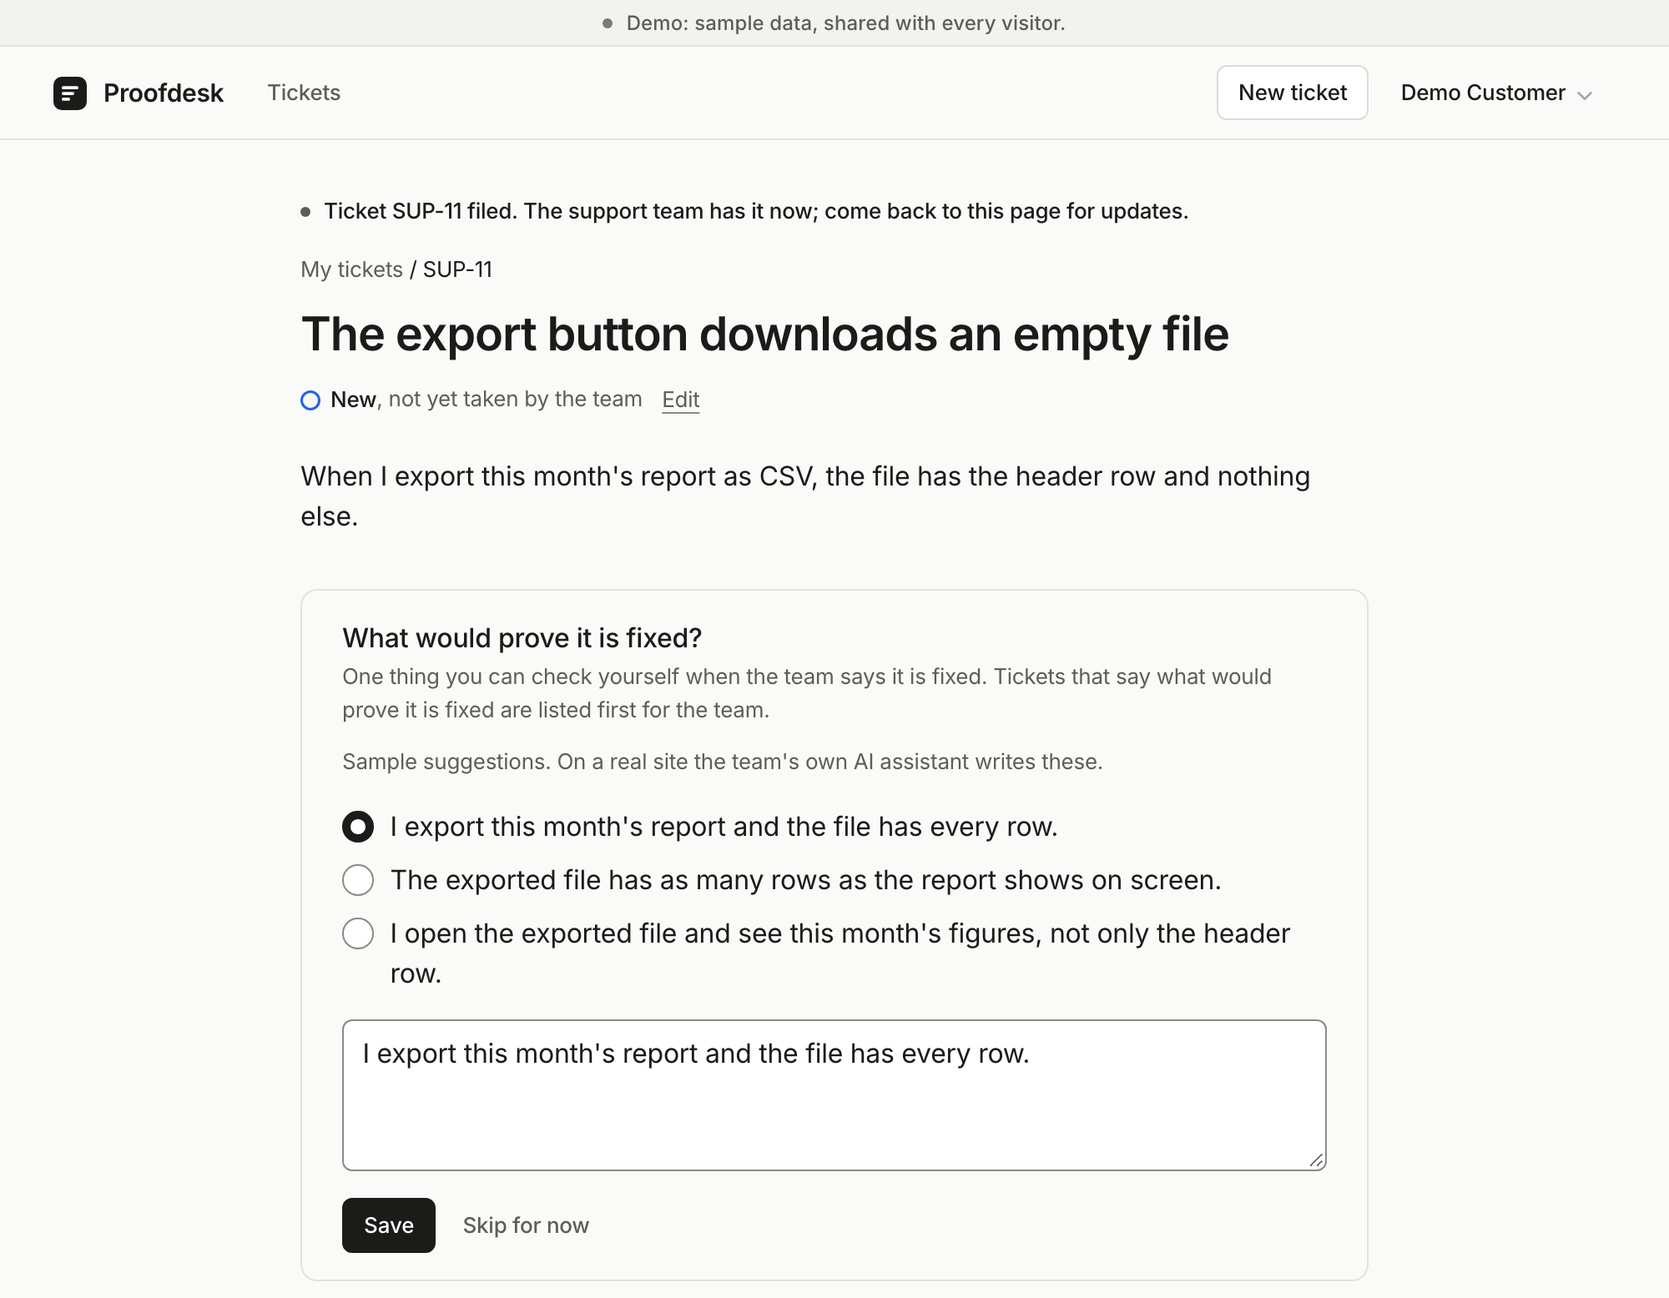
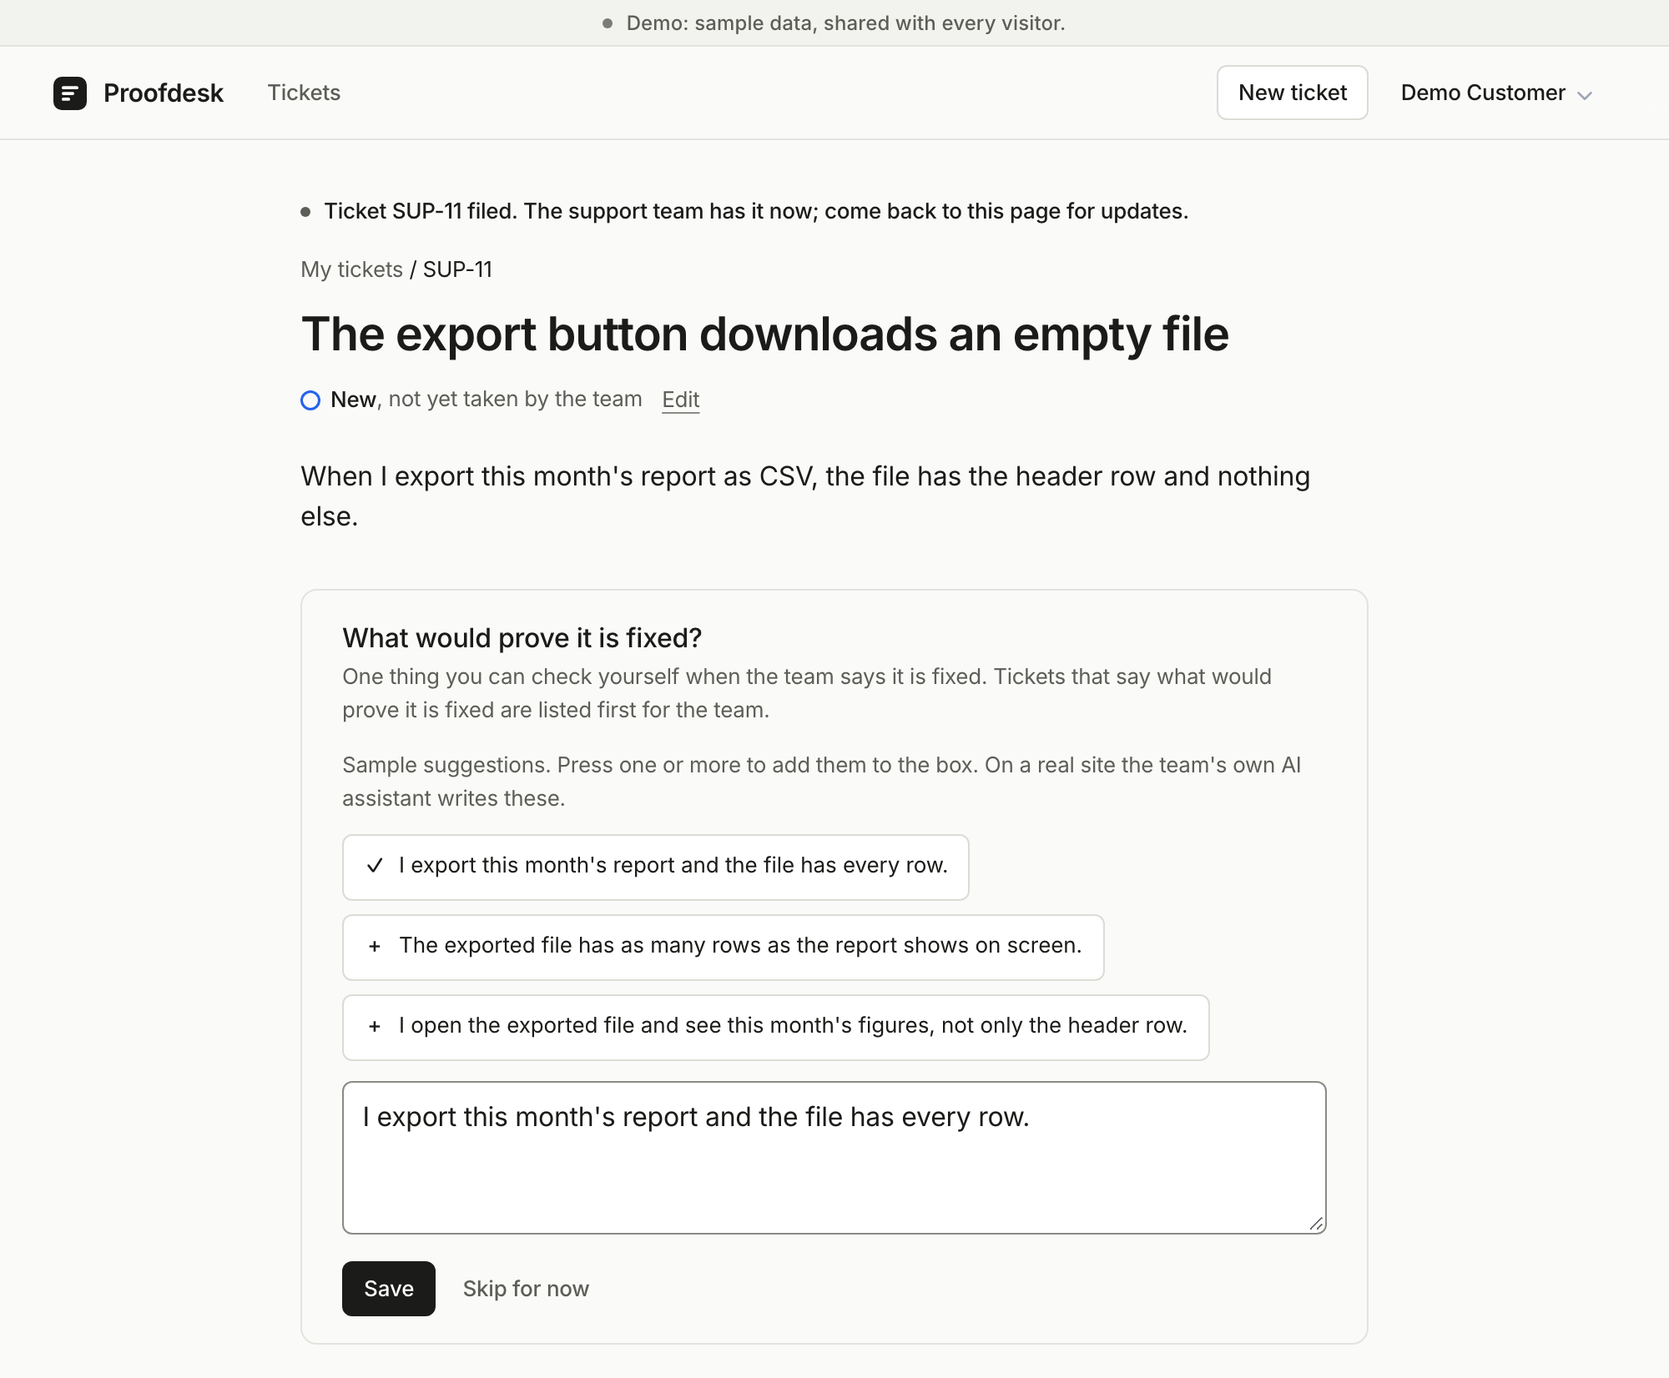
Describe the + suggestions in the docs, log #209 and add a roadmap line
The README, the tour and the spec say each suggested proof is a "+" that adds its sentence to
the box, and the README's proof and list pictures are retaken. The build log gains its row for
#209 between #208 and #210, and the roadmap's smaller ideas gain suggested proofs on the new
ticket form.

diff --git a/tests/docs/build-log-and-roadmap-lines.test.ts b/tests/docs/build-log-and-roadmap-lines.test.ts
@@ -1,0 +1,33 @@
+import fs from "node:fs";
+import { describe, expect, it } from "vitest";
+
+// Two lines this step adds to the docs: the build log's last rows, numbered one after another in
+// the order their pull requests merged (#208, then #209, then #210), and one roadmap idea.
+
+const log = fs.readFileSync("docs/BUILD_LOG.md", "utf8");
+
+/** The step number of the row whose pull request column is this one. */
+function stepOf(pr: number): number {
+  const row = log.split("\n").find((line) => new RegExp(`\\| #${pr} +\\|\\s*$`).test(line));
+  expect(row, `#${pr}`).toBeDefined();
+  return Number(/^\|\s*(\d+)\./.exec(row!)![1]);
+}
+
+describe("the build log's last rows", () => {
+  it("have a row for #209, between #208 and #210, numbered in merge order", () => {
+    expect([208, 209, 210].map(stepOf)).toEqual([194, 195, 196]);
+  });
+});
+
+describe("the roadmap's smaller ideas", () => {
+  it("offer the suggested proofs on the new ticket form, never holding up filing", () => {
+    const roadmap = fs.readFileSync("docs/ROADMAP.md", "utf8");
+    const smaller = roadmap.slice(
+      roadmap.indexOf("## Smaller ideas from walking the demo"),
+      roadmap.indexOf("## Already built"),
+    );
+    expect(smaller.replace(/\s+/g, " ")).toContain(
+      "The suggested proofs offered on the new ticket form itself, once a title and a description are typed, without ever holding up filing.",
+    );
+  });
+});

diff --git a/tests/docs/docs-followup.test.ts b/tests/docs/docs-followup.test.ts
@@ -42,11 +42,13 @@ describe("the proof step's grey lines", () => {
   it("are two on the demo, the hint and the sample note, in the view, the README and the tour", () => {
     const step = read("views/proof-step.ejs");
     expect(step).toMatch(/id="proof-hint" class="hint"/);
-    expect(step).toContain("Sample suggestions. On a real site the team's own AI assistant");
+    expect(step).toContain(
+      "Sample suggestions. Press one or more to add them to the box. On a real site the team's own AI assistant",
+    );
     expect(readme).toContain("&quot;What would prove it is fixed?&quot; two grey lines");
     expect(tour).toContain("two grey lines");
     expect(tour).toContain(
-      '"Sample suggestions. On a real site the team\'s own AI assistant writes these."',
+      '"Sample suggestions. Press one or more to add them to the box. On a real site the team\'s own AI assistant writes these."',
     );
     for (const text of [readme, tour]) expect(text).not.toContain("one grey line,");
   });

diff --git a/tests/docs/docs-closing.test.ts b/tests/docs/docs-closing.test.ts
@@ -82,7 +82,7 @@ describe("the records", () => {
       .slice(start, roadmap.indexOf("## Already built"))
       .split("\n")
       .filter((line) => line.startsWith("- "));
-    expect(ideas).toHaveLength(14);
+    expect(ideas).toHaveLength(15);
     expect(new Set(ideas).size).toBe(ideas.length);
   });
 });

diff --git a/docs/BUILD_LOG.md b/docs/BUILD_LOG.md
@@ -204,7 +204,8 @@ them and which checks ran.
 | 192. Sample tickets on the demo                  | On the demo, About this demo can add a batch of made-up tickets, 10, 25 or 50 filed over a week, a month or three months, to filter, sort and search.                                                                                                                                                                                                                                                                                                                                                                                                                                                                                                                                                                                                                                                                                         | The route exists only on the demo. Batches stop 50 tickets short of the demo's budget, so visitors can always file their own, and the reset removes them. Its 14 new tests fail without the change.                                                                                                                                                                                                                                                                                                                                                | #205                             |
 | 193. The dogfooding record names its operator    | The record of fixing Proofdesk through Proofdesk, and the README, say a separate AI agent did the operator's steps with no human in the loop, and the tour names the demo's sample batch and when the age filter appears.                                                                                                                                                                                                                                                                                                                                                                                                                                                                                                                                                                                                                     | Every fact and time in the record is unchanged. The assistant run's record kept "Human steps before the run", because its page draws the same heading and renaming it was a view change. With the docs changes undone, the 8 new or changed docs tests fail.                                                                                                                                                                                                                                                                                       | #207                             |
 | 194. A recrawl of every page                     | Every page, role and state was walked again at 1440 and 390 wide, and the fifteen formatting faults it found were fixed: one confirmed mark, tidy cards, aligned forms and even spacing.                                                                                                                                                                                                                                                                                                                                                                                                                                                                                                                                                                                                                                                      | Formatting only: no press does anything new and no label on the guided path changed. The run record's heading became "Setup steps before the run". The tour's quote of the About page's sentence was left to the docs. With the changes undone, 28 tests fail.                                                                                                                                                                                                                                                                                     | #208                             |
-| 195. Edit beside the title, and Open             | Edit, and the filer's Archive, sit on the line under a ticket's title instead of inside More options, the list gains Open for every unresolved ticket, All shows every ticket, and the age choices show only under Resolved.                                                                                                                                                                                                                                                                                                                                                                                                                                                                                                                                                                                                                  | The rules and the JSON API are unchanged; the page passes Open down as one status value so every sort keeps its index. A filer cannot restore an archived ticket, so the archive page does not say they can. The README's three pictures were retaken because each shows a changed line. With the changes undone, 22 tests fail.                                                                                                                                                                                                                   | #210                             |
+| 195. The docs after the recrawl                  | The README's list picture and the tour match the product after the formatting pass, and the build log has rows for #207 and #208.                                                                                                                                                                                                                                                                                                                                                                                                                                                                                                                                                                                                                                                                                                             | Docs and docs tests only. The list picture was retaken from a fresh local demo with the same recipe; the two card pictures matched the README's pixel for pixel and were kept. With the changes undone, the docs tests fail.                                                                                                                                                                                                                                                                                                                       | #209                             |
+| 196. Edit beside the title, and Open             | Edit, and the filer's Archive, sit on the line under a ticket's title instead of inside More options, the list gains Open for every unresolved ticket, All shows every ticket, and the age choices show only under Resolved.                                                                                                                                                                                                                                                                                                                                                                                                                                                                                                                                                                                                                  | The rules and the JSON API are unchanged; the page passes Open down as one status value so every sort keeps its index. A filer cannot restore an archived ticket, so the archive page does not say they can. The README's three pictures were retaken because each shows a changed line. With the changes undone, 22 tests fail.                                                                                                                                                                                                                   | #210                             |
 
 ## How changes reached main
 

diff --git a/docs/SPEC.md b/docs/SPEC.md
@@ -228,7 +228,7 @@ The owner's reason for the product, in his words: "AIs do best when the prompts 
 - **Pictures** on a ticket and its messages, shown only to who may see what they are attached to; on the shared demo, only to the browser that added them.
 - **Similar and duplicate tickets.** The form names one similar ticket while the title is typed, and the team's page names an older possible duplicate, with one press to close the ticket as its duplicate.
 - **Sign-in.** Microsoft sign-in for one organization sits beside GitHub once its three settings are set. This replaces "other sign-in providers" in the list of things left out, for Microsoft only.
-- **Suggested ways to prove a fix.** An admin sets each connection's Suggestions to Off, When asked or Automatic. A listening assistant answers a customer's request with up to three ways, which fill the step's box; the customer saves their own words. Never on a demo connection, and Proofdesk itself makes no AI calls.
+- **Suggested ways to prove a fix.** An admin sets each connection's Suggestions to Off, When asked or Automatic. A listening assistant answers a customer's request with up to three ways, each a "+" that adds its words to the step's box (see 2026-11-20, later); the customer saves their own words. Never on a demo connection, and Proofdesk itself makes no AI calls.
 - **Smaller.** The header is two groups with one person menu; the page after a key is one message to paste; one-job pages sit in a centred column; emails read like emails.
 
 ### 2026-11-19, night: marking fixed is the team's agreement
@@ -245,3 +245,9 @@ Fixes only; the rules, the JSON API and the three statuses are unchanged.
 
 - **Edit beside the title.** Whoever may edit a ticket finds a quiet **Edit** link at the end of the line under the title, no longer under More options. The customer who filed a ticket that is not resolved finds **Archive** beside it, and the archive page says it is for a ticket filed by mistake or twice. The team's Archive ticket stays under More options, and More options is left out when nothing is in it.
 - **Open on the list.** The status row reads All, Open, New, In Progress and Resolved, each with its count. Open is every ticket that is not resolved, kept in the address as `status=open`. All shows every ticket, with no 14-day rule. The filter by age shows only under Resolved, as above; an old address with `resolved=any` shows any age.
+
+### 2026-11-20, later: suggested proofs add to the box
+
+The owner's change to the proof step; the rules, the JSON API, the assistant tools and `/llms.txt` are unchanged.
+
+- **Suggested proofs are "+" buttons.** Each suggestion, from an assistant or from the demo's samples, is one button: a small "+" and its sentence. Pressing it adds the sentence to the box, alone in an empty box or on a new line after what is there; a sentence already in the box is not added again, and its button shows a check until the sentence is deleted. With scripts off each "+" posts the form and the step comes back with the sentence added and nothing saved. The box is still the one thing saved, and the save records as chosen the first suggestion shown whose sentence is still in the box, or none.

diff --git a/docs/TOUR.md b/docs/TOUR.md
@@ -17,7 +17,7 @@ Each one takes under a minute on the demo, which opens on the ticket list as the
 
 - Start as: The ticket you just filed, on its second step
 - Press: **Save**, or **Skip for now**; later, **Change** beside the label
-- You should see: "What would prove it is fixed?", two grey lines, one box, **Save** and **Skip for now**. The first line says it is one thing you can check yourself; on the demo the second reads "Sample suggestions. On a real site the team's own AI assistant writes these.", over three sample suggestions with the first already in the box. Saved words are quoted under the label, with "Saved. The team will check the fix against it." once. A ticket with none shows its filer "Add what would prove it". The team cannot write it; it is the customer's own words. A form or API call that already carries it files the ticket without the step.
+- You should see: "What would prove it is fixed?", two grey lines, one box, **Save** and **Skip for now**. The first line says it is one thing you can check yourself; on the demo the second reads "Sample suggestions. Press one or more to add them to the box. On a real site the team's own AI assistant writes these.", over three sample suggestions, each a "+" button that adds its sentence to the box, with the first already in the box. Saved words are quoted under the label, with "Saved. The team will check the fix against it." once. A ticket with none shows its filer "Add what would prove it". The team cannot write it; it is the customer's own words. A form or API call that already carries it files the ticket without the step.
 
 **Ticket list with filters**
 
@@ -83,7 +83,7 @@ Each one takes under a minute on the demo, which opens on the ticket list as the
 
 - Start as: An admin on Connections, on the real site or the development entrance
 - Press: The connection's Suggestions choice: Off, When asked or Automatic
-- You should see: Off is the default and a demo connection never has it. With When asked, the customer's step shows a quiet "Suggest ways to prove it"; with Automatic, the step asks by itself. A listening assistant answers within seconds with up to three choices, under "Suggested by the team's AI assistant. Pick one to fill the box, then edit it if you like." Picking one fills the box; the customer saves their own words. Proofdesk makes no AI calls itself, and with nothing listening the step says nothing about an assistant.
+- You should see: Off is the default and a demo connection never has it. With When asked, the customer's step shows a quiet "Suggest ways to prove it"; with Automatic, the step asks by itself. A listening assistant answers within seconds with up to three suggestions, under "Suggested by the team's AI assistant. Press one or more to add them to the box, then edit as you like." Each is a "+" button that adds its sentence to the box, on a new line after what is there, and shows a check once it is in the box; the customer saves the box as their own words. Proofdesk makes no AI calls itself, and with nothing listening the step says nothing about an assistant.
 
 **Evidence, history and email notices**
 

diff --git a/README.md b/README.md
@@ -38,10 +38,10 @@ On the demo, in about two minutes, with eight presses:
 
 1. The demo opens on your ticket list as the Demo Customer. On the welcome card above the list,
    press **File a sample ticket**, then **File ticket**. The form holds a sample you can change.
-2. The filed ticket asks "What would prove it is fixed?", with three sample suggestions and the
-   first in the box. Press **Save**: the ticket is **New**, with your words under that label.
+2. The filed ticket asks "What would prove it is fixed?", with three sample "+" suggestions and
+   the first in the box. Press **Save**: the ticket is **New**, with your words under that label.
 
-<img src="docs/img/what-would-prove-it.png" width="560" alt="The step after filing, under the title's line &quot;New, not yet taken by the team&quot; and its quiet &quot;Edit&quot; link, in a bordered card: under &quot;What would prove it is fixed?&quot; two grey lines, a hint and a note that these are sample suggestions, then three sample suggestions to pick from, a box holding the first one, and the buttons &quot;Save&quot; and &quot;Skip for now&quot;">
+<img src="docs/img/what-would-prove-it.png" width="560" alt="The step after filing, under the title's line &quot;New, not yet taken by the team&quot; and its quiet &quot;Edit&quot; link, in a bordered card: under &quot;What would prove it is fixed?&quot; two grey lines, a hint and a note that these are sample suggestions, then three sample suggestions as buttons, the first with a check because it is already in the box and the other two with a plus, a box holding the first one, and the buttons &quot;Save&quot; and &quot;Skip for now&quot;">
 
 3. Press **View this ticket as a team member**, then **Take ticket and start work**. The ticket
    is **In Progress**, and you own it.

diff --git a/docs/ROADMAP.md b/docs/ROADMAP.md
@@ -73,6 +73,8 @@ Each is one line, raised while the demo was walked before sending, to weigh afte
 - A live replay of the recorded assistant run, with its real times.
 - A customer withdrawing their own ticket with a reason (a mistake, a duplicate, no longer needed),
   shown as Resolved and labelled as withdrawn by the customer.
+- The suggested proofs offered on the new ticket form itself, once a title and a description are
+  typed, without ever holding up filing.
 
 ## Already built
 
